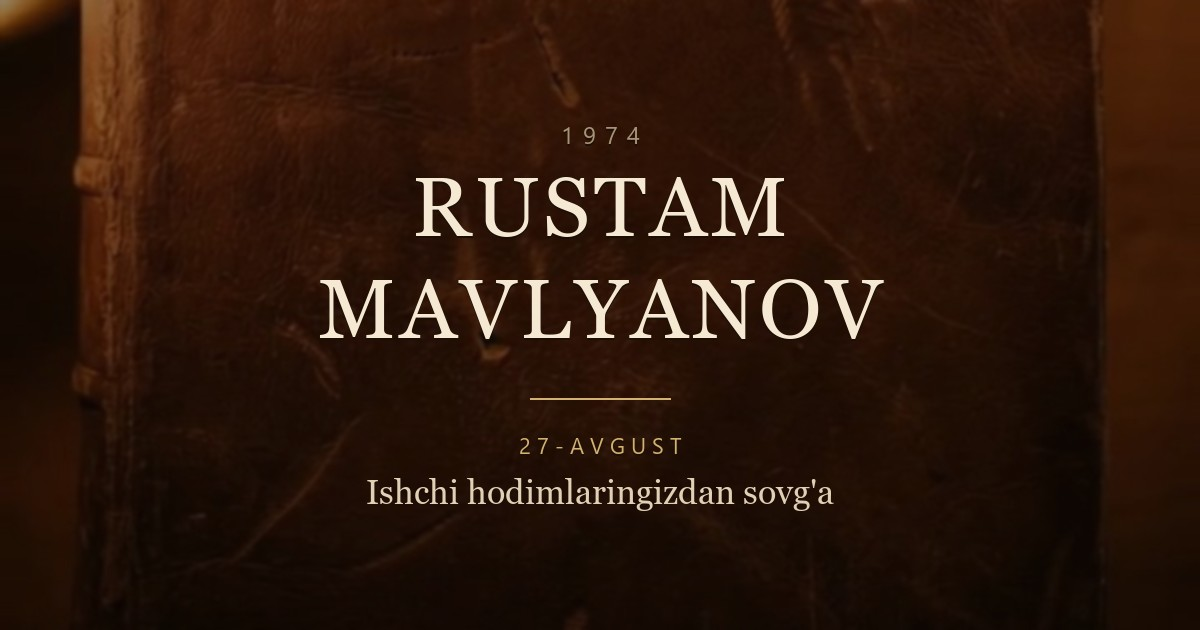
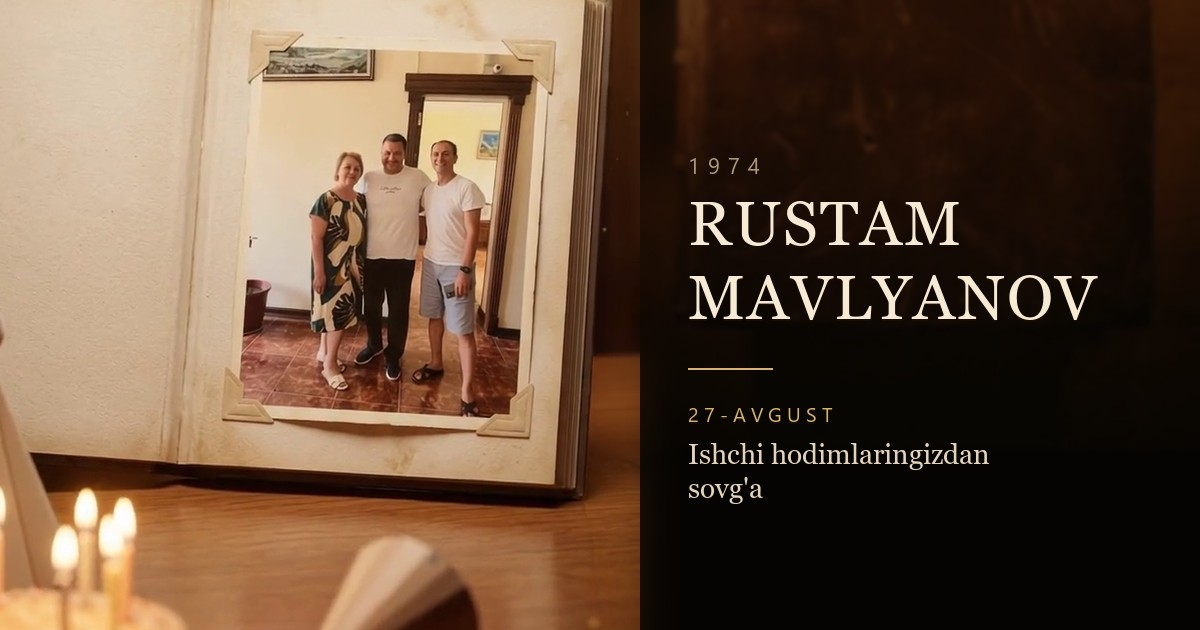
Havola kartochkasi videoning o'z sahnasidan yasaldi
Quruq charm o'rniga chapda albom, ichida surat, pastda tort
shamlari; o'ngda qorong'i charm ustida ism va sana. Kartochka
endi saytning ichidagi dunyoni ko'rsatadi.

Manzillar haqiqiy domenga o'tkazildi.

diff --git a/index.html b/index.html
@@ -16,8 +16,8 @@
 <meta property="og:locale" content="uz_UZ">
 <meta property="og:title" content="Rustam Mavlyanov — Tug'ilgan kuningiz bilan">
 <meta property="og:description" content="27-avgust 1974. Ishchi hodimlaringizdan sovg'a.">
-<meta property="og:url" content="https://rustam-tabrik.netlify.app/">
-<meta property="og:image" content="https://rustam-tabrik.netlify.app/img/og.jpg">
+<meta property="og:url" content="https://rustam-tugulgankun.netlify.app/">
+<meta property="og:image" content="https://rustam-tugulgankun.netlify.app/img/og.jpg">
 <meta property="og:image:type" content="image/jpeg">
 <meta property="og:image:width" content="1200">
 <meta property="og:image:height" content="630">
@@ -26,7 +26,7 @@
 <meta name="twitter:card" content="summary_large_image">
 <meta name="twitter:title" content="Rustam Mavlyanov — Tug'ilgan kuningiz bilan">
 <meta name="twitter:description" content="27-avgust 1974. Ishchi hodimlaringizdan sovg'a.">
-<meta name="twitter:image" content="https://rustam-tabrik.netlify.app/img/og.jpg">
+<meta name="twitter:image" content="https://rustam-tugulgankun.netlify.app/img/og.jpg">
 
 <link rel="preconnect" href="https://fonts.googleapis.com">
 <link rel="preconnect" href="https://fonts.gstatic.com" crossorigin>

diff --git a/OQING.md b/OQING.md
@@ -56,7 +56,7 @@ bilan rostlanadi.
    Netlify ularni allaqachon qurilgan deploy'ga qo'shmaydi.
 3. **Sayt manzili ma'lum bo'lgach `index.html` dagi uchta manzilni
    yangilang** — `og:url`, `og:image`, `twitter:image`. Hozir ular
-   `https://rustam-tabrik.netlify.app/` deb turibdi. Yangilanmasa
+   `https://rustam-tugulgankun.netlify.app/` deb turibdi. Yangilanmasa
    Telegramdagi havola kartochkasi rasmsiz chiqadi.
 
 ## Mehmonlar daftari
